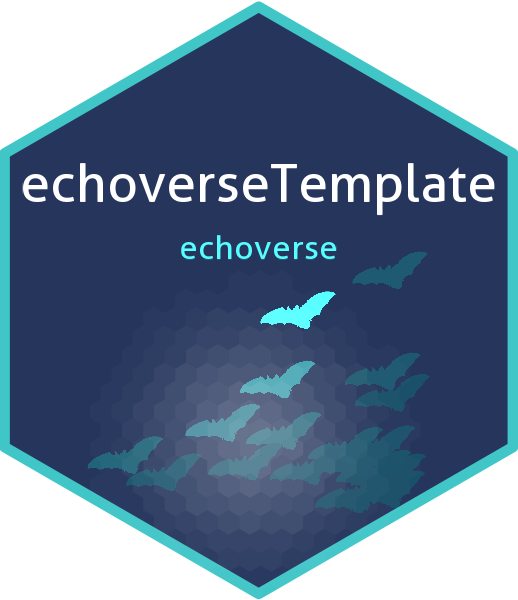
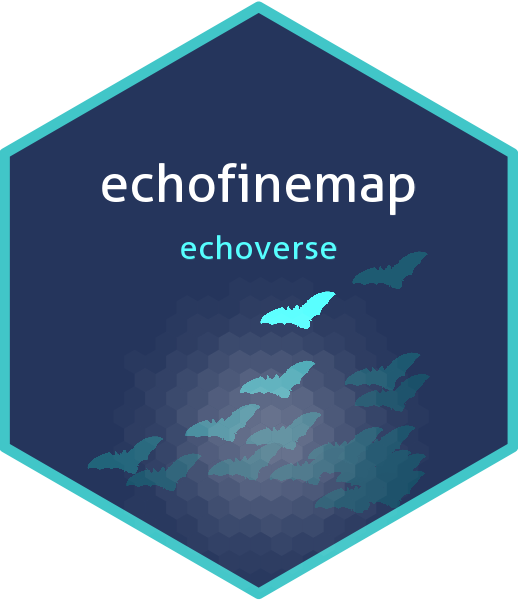
Initialize repo

Changed region(s): [[0.0309, 0.27, 0.9575, 0.36], [0.1236, 0.33, 0.1544, 0.36]]

diff --git a/README.md b/README.md
@@ -1,25 +1,25 @@
-<img src='https://github.com/RajLabMSSM/echoverseTemplate/raw/master/inst/hex/hex.png' height='300'><br><br>
-[![](https://img.shields.io/badge/devel%20version-0.99.0-black.svg)](https://github.com/RajLabMSSM/echoverseTemplate)
+<img src='https://github.com/RajLabMSSM/echofinemap/raw/master/inst/hex/hex.png' height='300'><br><br>
+[![](https://img.shields.io/badge/devel%20version-0.99.0-black.svg)](https://github.com/RajLabMSSM/echofinemap)
 [![R build
-status](https://github.com/RajLabMSSM/echoverseTemplate/workflows/R-CMD-check-bioc/badge.svg)](https://github.com/RajLabMSSM/echoverseTemplate/actions)
-[![](https://img.shields.io/github/last-commit/RajLabMSSM/echoverseTemplate.svg)](https://github.com/RajLabMSSM/echoverseTemplate/commits/master)
-[![](https://codecov.io/gh/RajLabMSSM/echoverseTemplate/branch/master/graph/badge.svg)](https://codecov.io/gh/RajLabMSSM/echoverseTemplate)
+status](https://github.com/RajLabMSSM/echofinemap/workflows/R-CMD-check-bioc/badge.svg)](https://github.com/RajLabMSSM/echofinemap/actions)
+[![](https://img.shields.io/github/last-commit/RajLabMSSM/echofinemap.svg)](https://github.com/RajLabMSSM/echofinemap/commits/master)
+[![](https://codecov.io/gh/RajLabMSSM/echofinemap/branch/master/graph/badge.svg)](https://codecov.io/gh/RajLabMSSM/echofinemap)
 [![License:
 GPL-3](https://img.shields.io/badge/license-GPL--3-blue.svg)](https://cran.r-project.org/web/licenses/GPL-3)
 <h5>
 Author: <i>Brian M. Schilder</i>
 </h5>
 <h5>
-README updated: <i>Dec-03-2021</i>
+README updated: <i>Mar-01-2022</i>
 </h5>
 
-## `echoverseTemplate`: echoversePackageDescription.
+## `echofinemap`: Statistical and functional fine-mapping functions.
 
 This R package is part of the *echoverse* suite that supports
 [`echolocatoR`](https://github.com/RajLabMSSM/echolocatoR): an automated
 genomic fine-mapping pipeline.
 
-If you use `echoverseTemplate`, please cite:
+If you use `echofinemap`, please cite:
 
 > Brian M Schilder, Jack Humphrey, Towfique Raj (2021) echolocatoR: an
 > automated end-to-end statistical and functional genomic fine-mapping
@@ -31,15 +31,15 @@ If you use `echoverseTemplate`, please cite:
 ``` r
 if(!require("remotes")) install.packages("remotes")
 
-remotes::install_github("RajLabMSSM/echoverseTemplate")
-library(echoverseTemplate)
+remotes::install_github("RajLabMSSM/echofinemap")
+library(echofinemap)
 ```
 
 ## Documentation
 
-### [Website](https://rajlabmssm.github.io/echoverseTemplate)
+### [Website](https://rajlabmssm.github.io/echofinemap)
 
-### [Getting started](https://rajlabmssm.github.io/echoverseTemplate/articles/echoverseTemplate)
+### [Getting started](https://rajlabmssm.github.io/echofinemap/articles/echofinemap)
 
 <hr>
 
